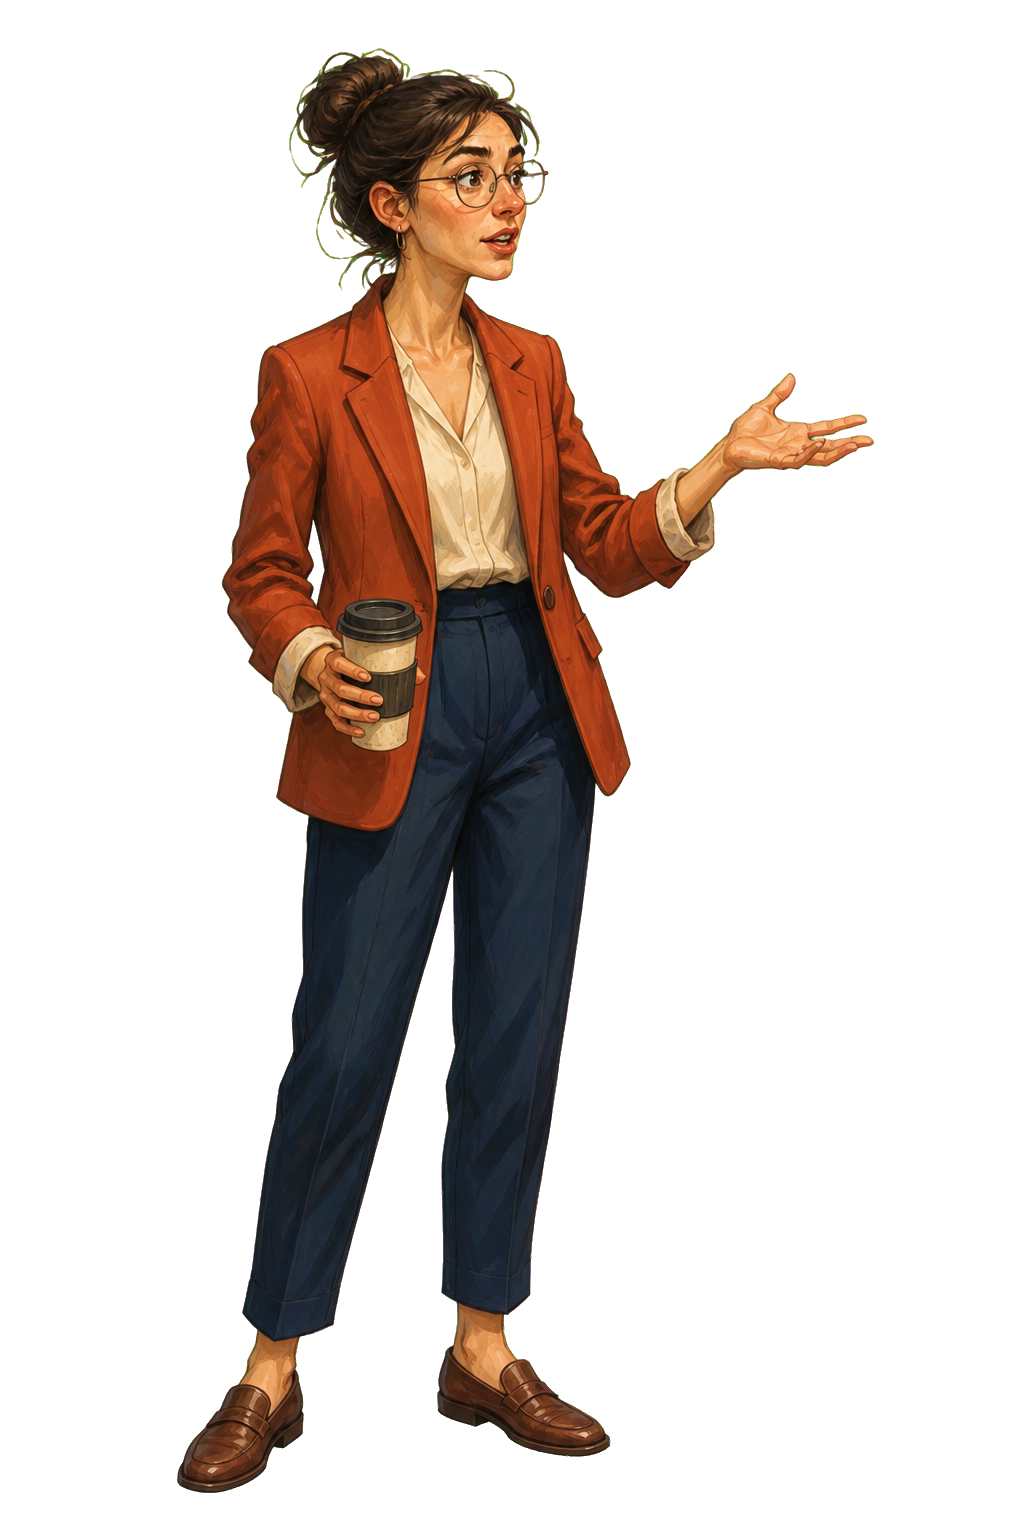
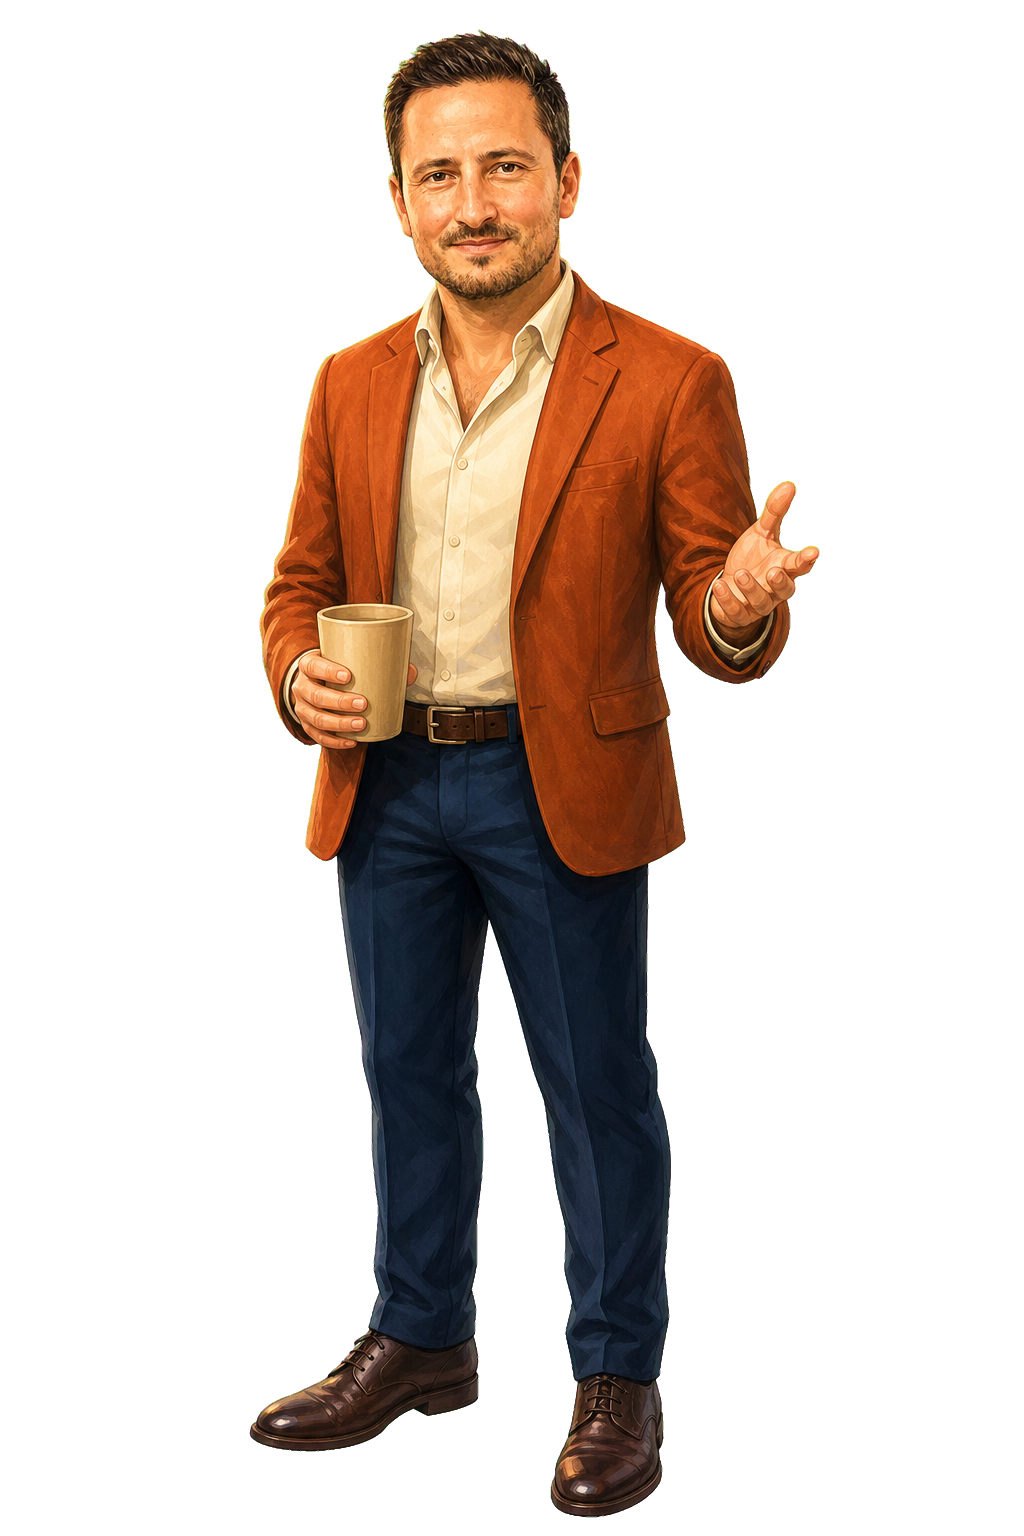
feat(assets): add oat-milk reformist alternate skin and test roster parity

Changed region(s): [[0.1562, 0.0, 0.8438, 1.0]]

diff --git a/tests/unit/content-schemas.test.ts b/tests/unit/content-schemas.test.ts
@@ -1165,6 +1165,7 @@ describe('content schemas', () => {
       'black-sea-captain',
       'government-ai',
       'retiring-cassandra',
+      'oat-milk-reformist',
     ]);
     for (const character of phraseCardCatalog.characters) {
       expect(characterSkins[character.id]?.map(({ id }) => id)).toEqual(

diff --git a/docs/specs/spec-023-assets-visual-system.md b/docs/specs/spec-023-assets-visual-system.md
@@ -8,8 +8,96 @@
 ## Deliver
 
 Build the Sharp pipeline, manifest validation, visual tokens, and landscape
-asset loading. Produce original final-quality art for four characters and one
-scene. Add core reactions, ambience, and transitions.
+asset loading. Regenerate the fixed current character and scene asset baseline
+from scratch as original final-quality static art. Complete state and motion art
+for the four vertical-slice characters and one scene. Add core reactions,
+ambience, and transitions.
+
+## Regeneration baseline and decision recovery
+
+### Fixed replacement baseline
+
+This milestone regenerates the explicit fixed character and scene Portable
+Network Graphics (PNG) baseline below. Do not derive the scope from a later
+directory scan. The baseline contains 29 character PNG files and four scene PNG
+files.
+
+The character baseline contains the 19 default portraits that Milestone 026
+defines and these ten current alternate portraits:
+
+- `black-sea-captain--alternate.png`;
+- `government-ai--alternate.png`;
+- `midnight-sensationalist--alternate.png`;
+- `oat-milk-reformist--alternate.png`;
+- `red-folded-chairman--alternate.png`;
+- `retiring-cassandra--statesman.png`;
+- `thunder-tribune--alternate.png`;
+- `velvet-mogul--boardroom-patriarch.png`;
+- `velvet-mogul--silk-diplomat.png`; and
+- `velvet-mogul--velvet-statesman.png`.
+
+The scene baseline contains these current layers:
+
+- `modern-debate-studio.png`;
+- `modern-debate-studio-desks.png`;
+- `transition-era-television-studio.png`; and
+- `transition-era-television-studio-desks.png`.
+
+An asset added after this fixed baseline does not enter Milestone 023
+automatically. Milestone 031 owns later portraits, skins, states, scene
+identities, and layers. Regenerating the fixed baseline does not move those
+future requirements into this milestone.
+
+Regeneration is atomic for each represented archetype. Regenerate its default
+portrait and every baseline alternate skin in the same art pass. Review them as
+one package before accepting any file. Do not retain, accept, or ship an old
+alternate skin beside a regenerated default skin. An alternate added after the
+fixed baseline remains under Milestone 031, but it must be created from scratch
+under the same locked art direction and completed character study.
+
+Regenerate each baseline asset as new art. A current raster can be inspected
+only to find a missing, lost, or conflicting decision. Do not give a current
+raster to an image generator. Do not trace it, edit it, composite it into a new
+master, or use it as an image-to-image, identity, composition, or style
+reference. Generation inputs are the approved public art direction, a complete
+private character study or approved scene specification, and approved external
+research references.
+
+### Character readiness
+
+Each of the 19 represented archetypes must have one complete private character
+study before regeneration starts for any of its skins. An existing prompt does
+not qualify as a complete study. The study must define the archetype,
+silhouette, proportions, face or mechanical display, clothing or chassis,
+gesture rhythm, prop logic, palette, every baseline skin, state language,
+references, exclusions, and recorded reference approval when it is required.
+
+The art agent must audit the study before generation. When information is
+missing, lost, unclear, or contradictory, the agent must use `$grill-me` with
+the product owner. It must resolve one decision at a time and record each answer
+in the private study. The agent must not infer the missing decision from a
+current raster or prompt. It must not start generation while one required
+decision remains unresolved or deferred.
+
+### Scene readiness
+
+Each baseline scene layer must have a complete direction in its approved owning
+specification. The direction must define the camera, composition, layer
+boundary, moderator when present, architecture, furniture, props, lighting,
+palette, focal regions, interface-safe regions, and responsive crop. A prompt
+in the temporary folder is implementation evidence only and does not complete
+this direction.
+
+When scene information is missing, lost, unclear, or contradictory, the art
+agent must use `$grill-me` with the product owner. It must resolve one decision
+at a time and record each answer in the owning approved specification before
+generation starts.
+
+Use one locked art direction for the complete baseline. Review all regenerated
+assets together. A successful isolated portrait or scene does not establish
+visual consistency. The complete set must use one painterly language, edge
+treatment, material simplification, lighting logic, proportion system, and
+level of comic exaggeration.
 
 Each of the four Milestone 023 vertical-slice characters has one default skin
 and one through eight alternate skins. One archetype has no more than eight
@@ -90,11 +178,12 @@ reject human, animal, and hybrid anatomy.
 
 Character-specific visual descriptions, real-world references, source links,
 and private approval records belong only in the Git-ignored research folder.
-The research folder is not a product contract and never ships. Public
-specifications, shipped prompts, source notes, and asset metadata use fictional
-names and generic source descriptions. They do not include real-person names or
-character-reference links. Research can inform original, transformative work,
-but it does not permit copying one photograph, artwork, logo, or exact pose.
+The research folder supplies approved private generation briefs, but it is not
+a published product contract and never ships. Public specifications, shipped
+prompts, source notes, and asset metadata use fictional names and generic source
+descriptions. They do not include real-person names or character-reference
+links. Research can inform original, transformative work, but it does not
+permit copying one photograph, artwork, logo, or exact pose.
 
 ### Vertical-slice integration
 
@@ -306,6 +395,28 @@ updating a card, reaction, or character state produces exactly 0 layout shift.
   a separate research root. A missing or empty prompt fails before conversion.
   The shipping raster contains a generic source record but does not contain the
   exact prompt, its private path, or its links.
+- **AC-023-12:** The regeneration inventory contains exactly the 29 character
+  and four scene PNG files in the fixed baseline. Each replacement has a new
+  source hash and a generation-input record. The input record contains no
+  current raster. A missing baseline replacement or an extra asset claimed as a
+  Milestone 023 replacement fails the inventory. A later nonbaseline asset
+  remains under Milestone 031 and does not fail this inventory.
+- **AC-023-13:** All 19 represented archetypes have a complete private character
+  study before generation. An existing prompt alone fails readiness. Every
+  missing or conflicting decision has a recorded `$grill-me` answer from the
+  product owner, and no required decision remains unresolved or deferred.
+- **AC-023-14:** Each baseline scene layer has complete camera, composition,
+  layer, subject, prop, lighting, focal-region, interface-safe-region, and crop
+  direction in its owning approved specification. A temporary prompt alone
+  fails readiness. Missing decisions have recorded `$grill-me` answers in that
+  specification.
+- **AC-023-15:** No current raster is a generation, tracing, editing,
+  compositing, identity, composition, or style input for its replacement. A
+  side-by-side review of the complete regenerated baseline confirms one shared
+  painterly language, edge treatment, material simplification, lighting logic,
+  proportion system, and comic-exaggeration level. Each archetype package
+  contains its regenerated default and every baseline alternate. No package
+  mixes old and regenerated skins.
 
 ## Impeccable UI validation
 
